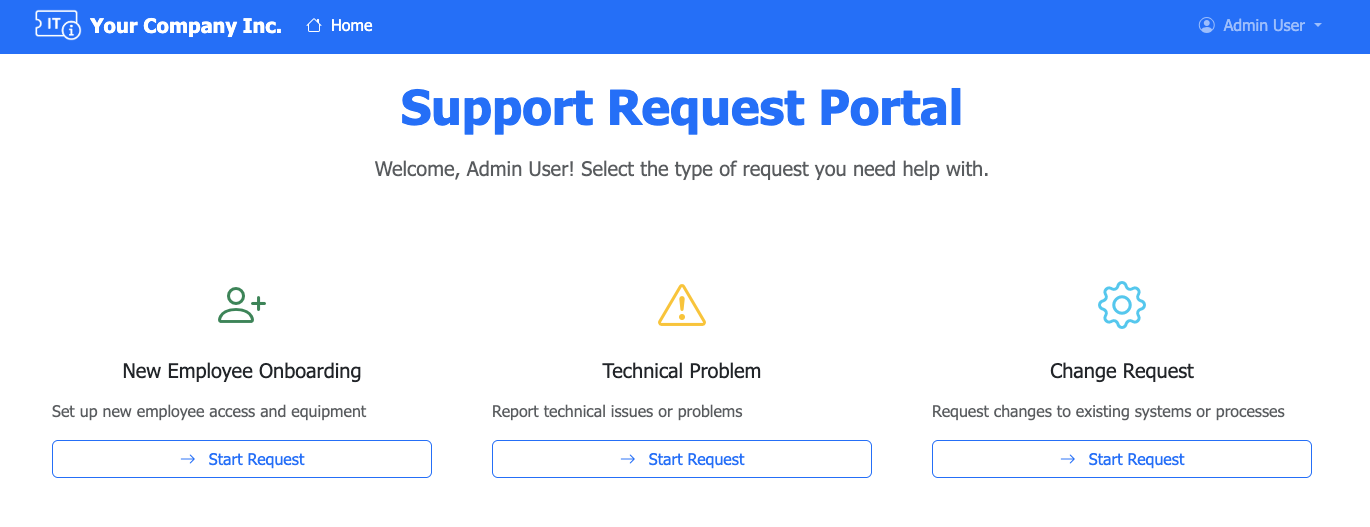
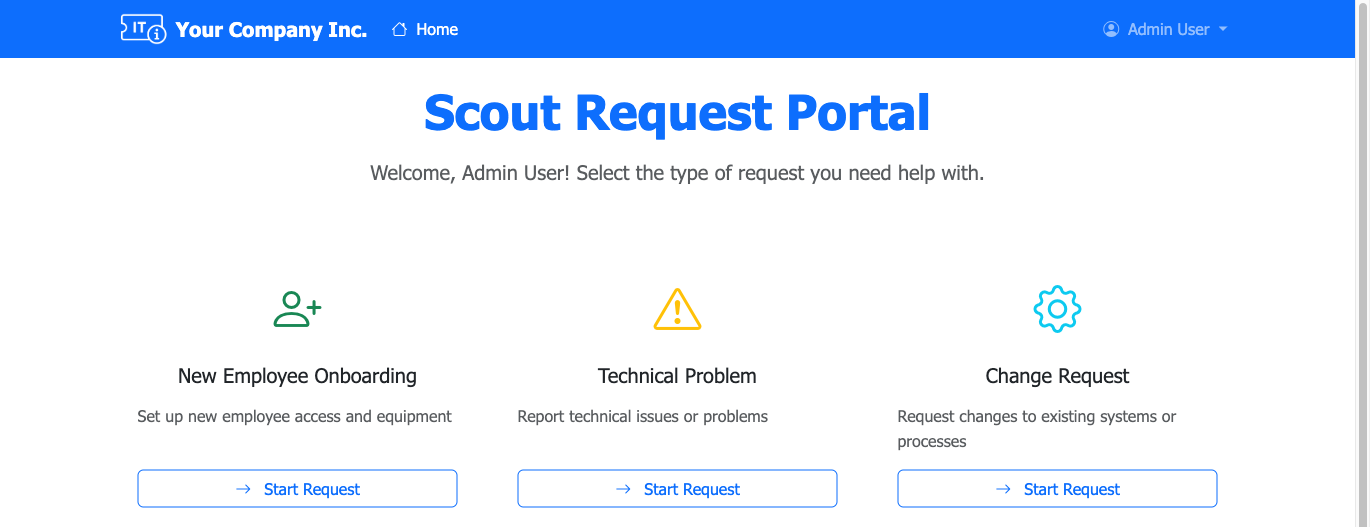
chore: rebrand app hero heading and screenshots to Scout
- templates/form/index.html: "Support Request Portal" -> "Scout Request Portal"
  (page title and hero H1; these were hardcoded, not from branding config)
- regenerate screenshot.png and site/public/screenshot.png showing the new
  "Scout Request Portal" heading

Generic uses of "support" (contact IT support, support ticket, support
email/phone, Expert/Emergency Support) are left unchanged.

diff --git a/templates/form/index.html b/templates/form/index.html
@@ -1,6 +1,6 @@
 {% extends "base.html" %}
 
-{% block title %}IT Support Request Portal{% endblock %}
+{% block title %}IT Scout Request Portal{% endblock %}
 
 {% block content %}
 <div class="container">
@@ -18,7 +18,7 @@
         <div class="col-12">
             <div class="text-center">
                 <h1 class="display-5 fw-bold text-primary mb-3">
-                    Support Request Portal
+                    Scout Request Portal
                 </h1>
                 <p class="lead text-muted">
                     Welcome, {{ user.name }}! Select the type of request you need help with.